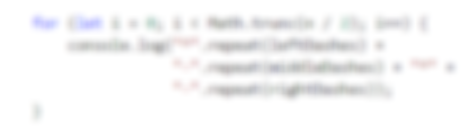
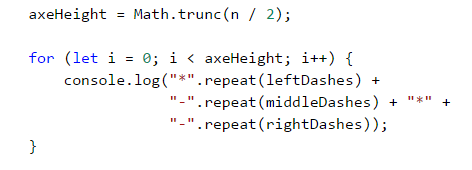
Small fix

diff --git a/chapter-06-nested-loops-exam-problems.md b/chapter-06-nested-loops-exam-problems.md
@@ -311,21 +311,23 @@ for (let i = 0; i < 10; i++) {
 
 ![](assets/chapter-6-2-images/05.Axe-02.PNG)
 
-За да можем да използваме отново създадените **променливи** при чертането на дръжката на брадвата, трябва да намалим **средните тирета** с 1, а **тиретата отдясно** да увеличим с 1.
+Сега следва да нарисуваме **дръжката на брадвата**. За да можем да използваме отново създадените **променливи** при чертането на дръжката на брадвата, трябва да намалим **средните тирета** с 1, а **тези отдясно и отляво** да увеличим с 1.
 
 ![](assets/chapter-6-2-images/05.Axe-03.PNG)
 
-**Дръжката на брадвата** можем да нарисуваме, като завъртим цикъл, който се повтаря **`n / 2`** пъти. От примерите можем да разберем, каква е нейната структура.
+**Дръжката на брадвата** можем да нарисуваме, като завъртим цикъл, който се повтаря **`n / 2`** пъти. Можем да отделим тази стойност в отделна **променлива**, като внимаваме, че ако като входни данни имаме **нечетно число**, при деление на две резултатът ще е реално число с цяла и дробна част. Тъй като в този случай ни трябва **само цялата част** (от условието на задачата виждаме, че при вход **5** височината на дръжката на брадвата е **2**), можем да използваме функцията **`Math.trunc()`**, с която да запазим само нейната стойност в новата ни променлива.
+
+От примерите можем да разберем, каква е структурата на дръжката:
 
 ![](assets/chapter-6-2-images/05.Axe-04.PNG)
 
-**Долната част** на фигурата, трябва да разделим на две подчасти - **глава на брадвата** и **последния ред от фигурата**. **Главата на брадвата** ще отпечатаме на конзолата, като направим цикъл, който да се повтаря **`n / 2 - 1`** пъти. На всяка итерация **тиретата отляво** и **тиретата отдясно** намаляват с 1, а **средните тирета** се увеличават с 2.
+**Долната част** на фигурата, трябва да разделим на две подчасти - **глава на брадвата** и **последния ред от фигурата**. **Главата на брадвата** ще отпечатаме на конзолата, като направим цикъл, който да се повтаря **`axeHeight - 1`** пъти. На всяка итерация **тиретата отляво** и **тиретата отдясно** намаляват с 1, а **средните тирета** се увеличават с 2.
 
-![](assets/chapter-6-2-images/05.Axe-05.png)
+![](assets/chapter-6-2-images/05.Axe-05.PNG)
 
 За **последния ред** от фигурата, можем отново да използваме трите, вече декларирани и инициализирани променливи **`leftDashes`**, **`middleDashes`**, **`rightDashes`**.
 
-![](assets/chapter-6-2-images/05.Axe-06.png)
+![](assets/chapter-6-2-images/05.Axe-06.PNG)
 
 ### Тестване в Judge системата
 
